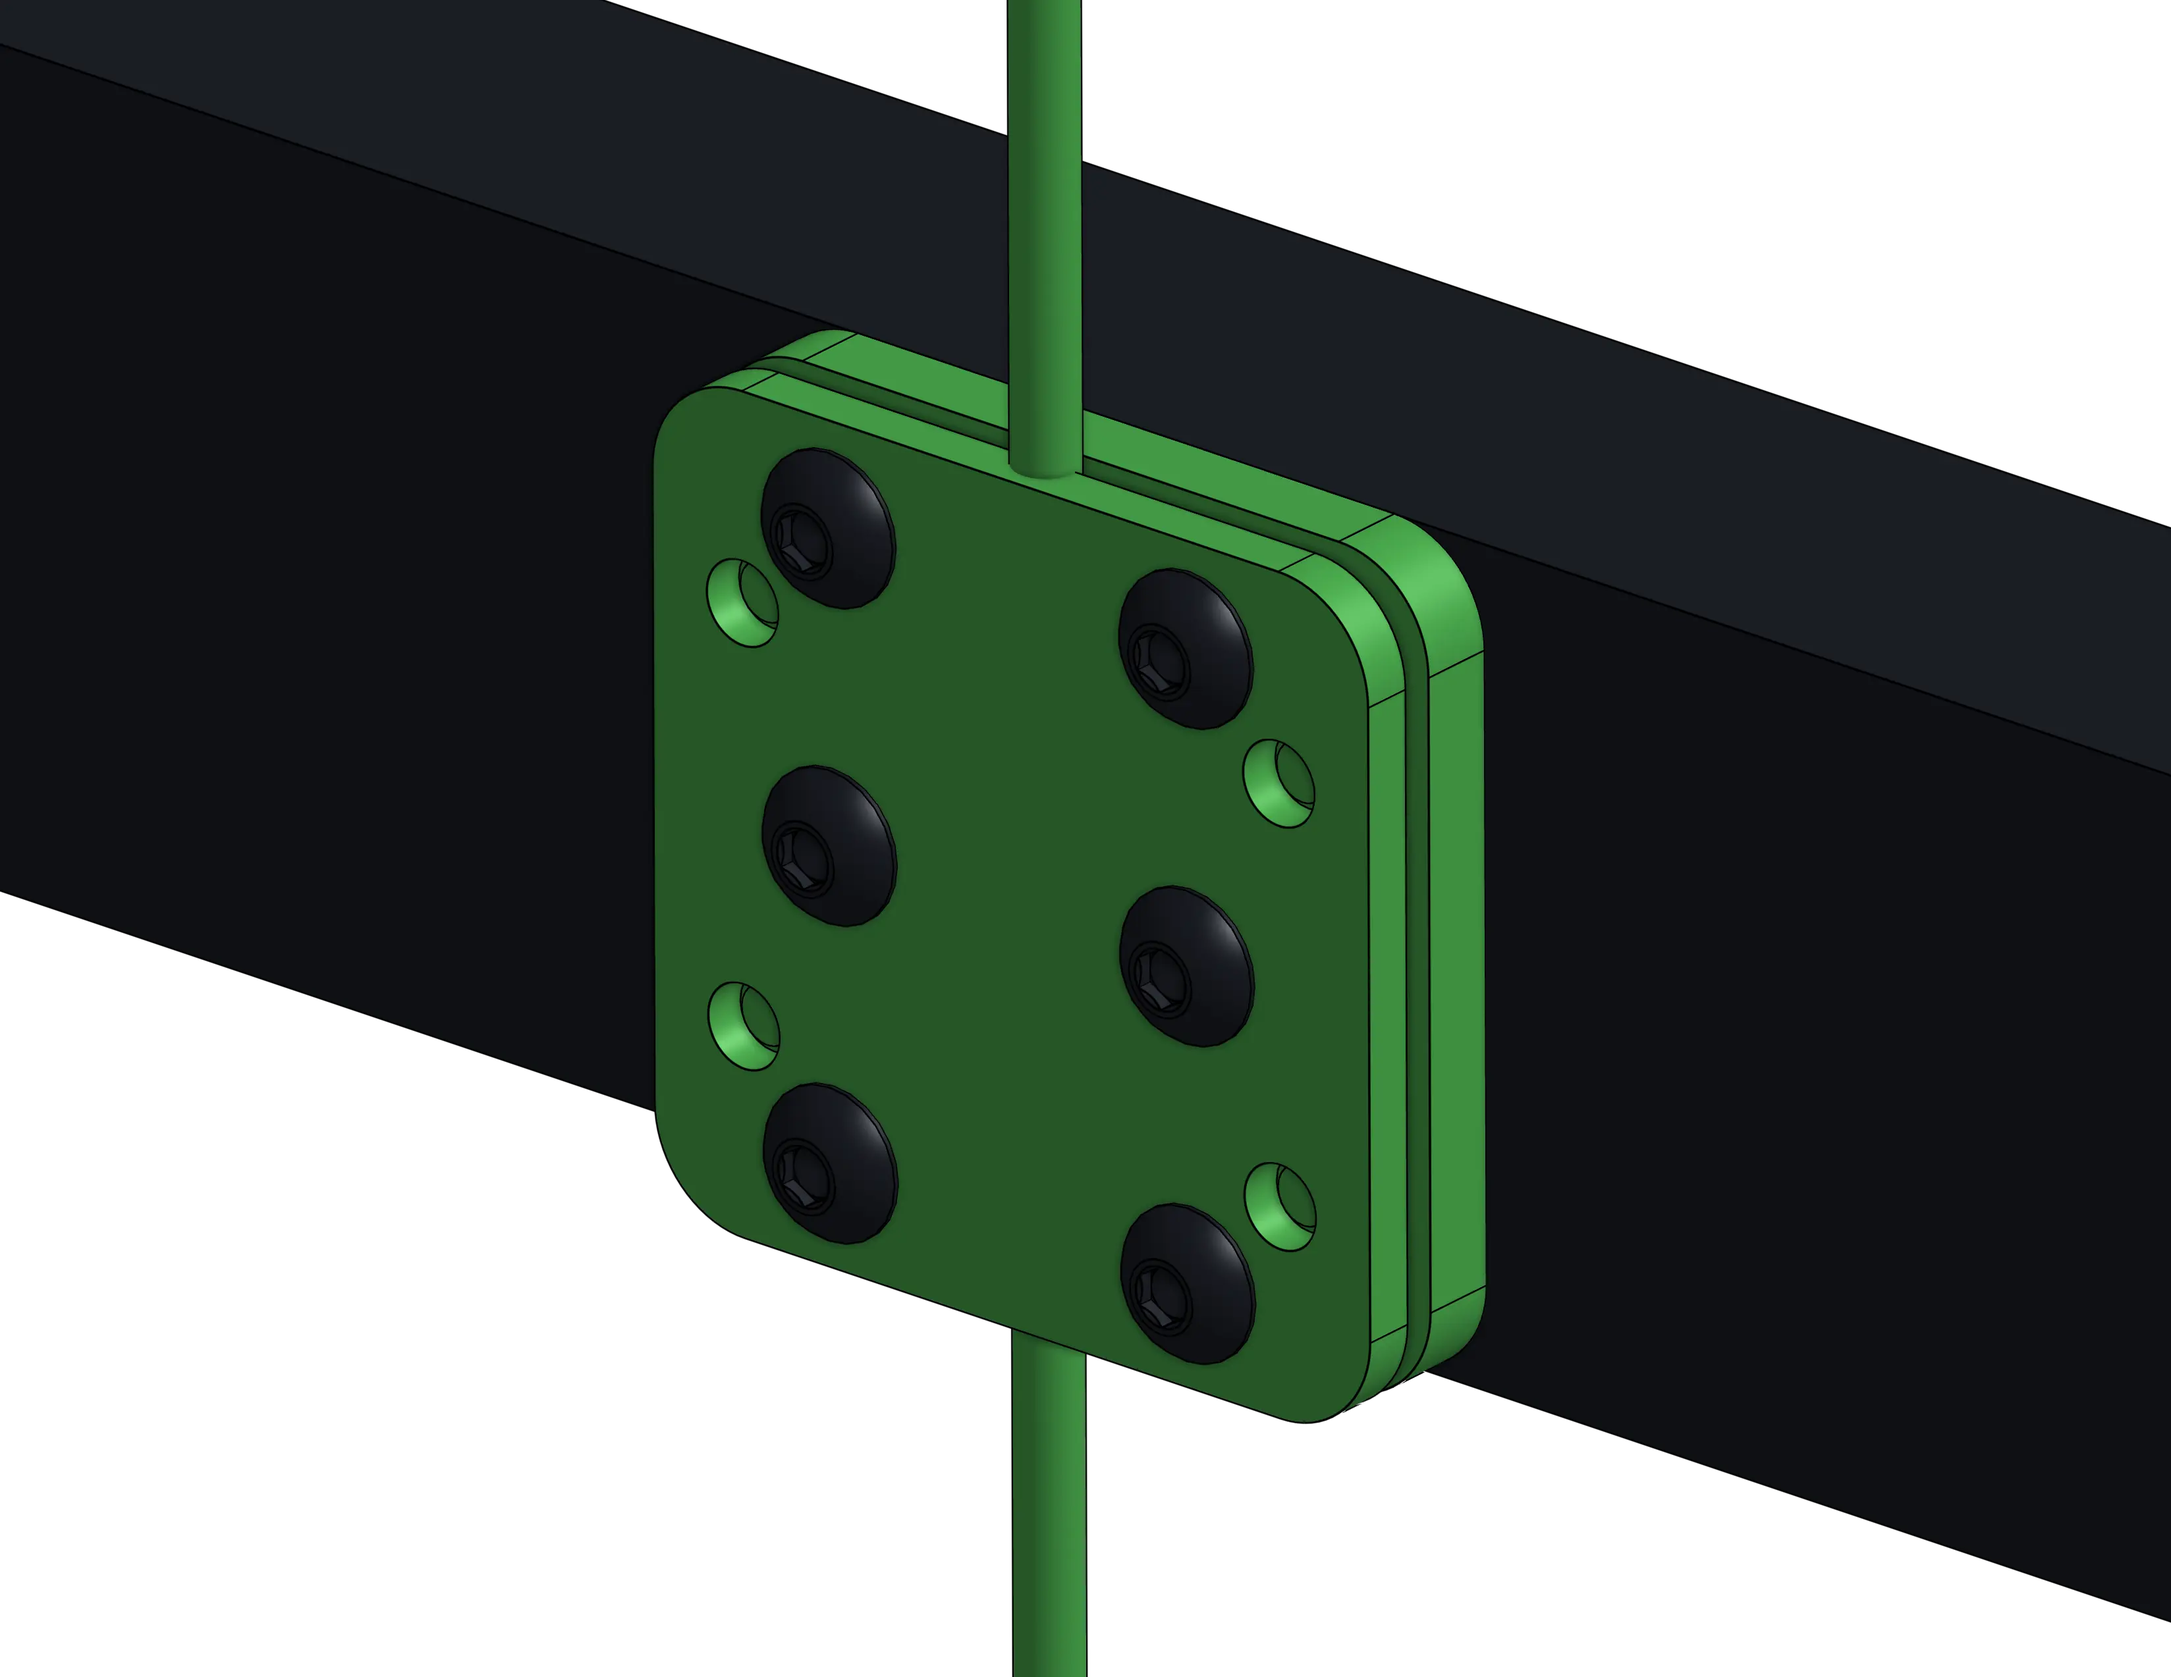
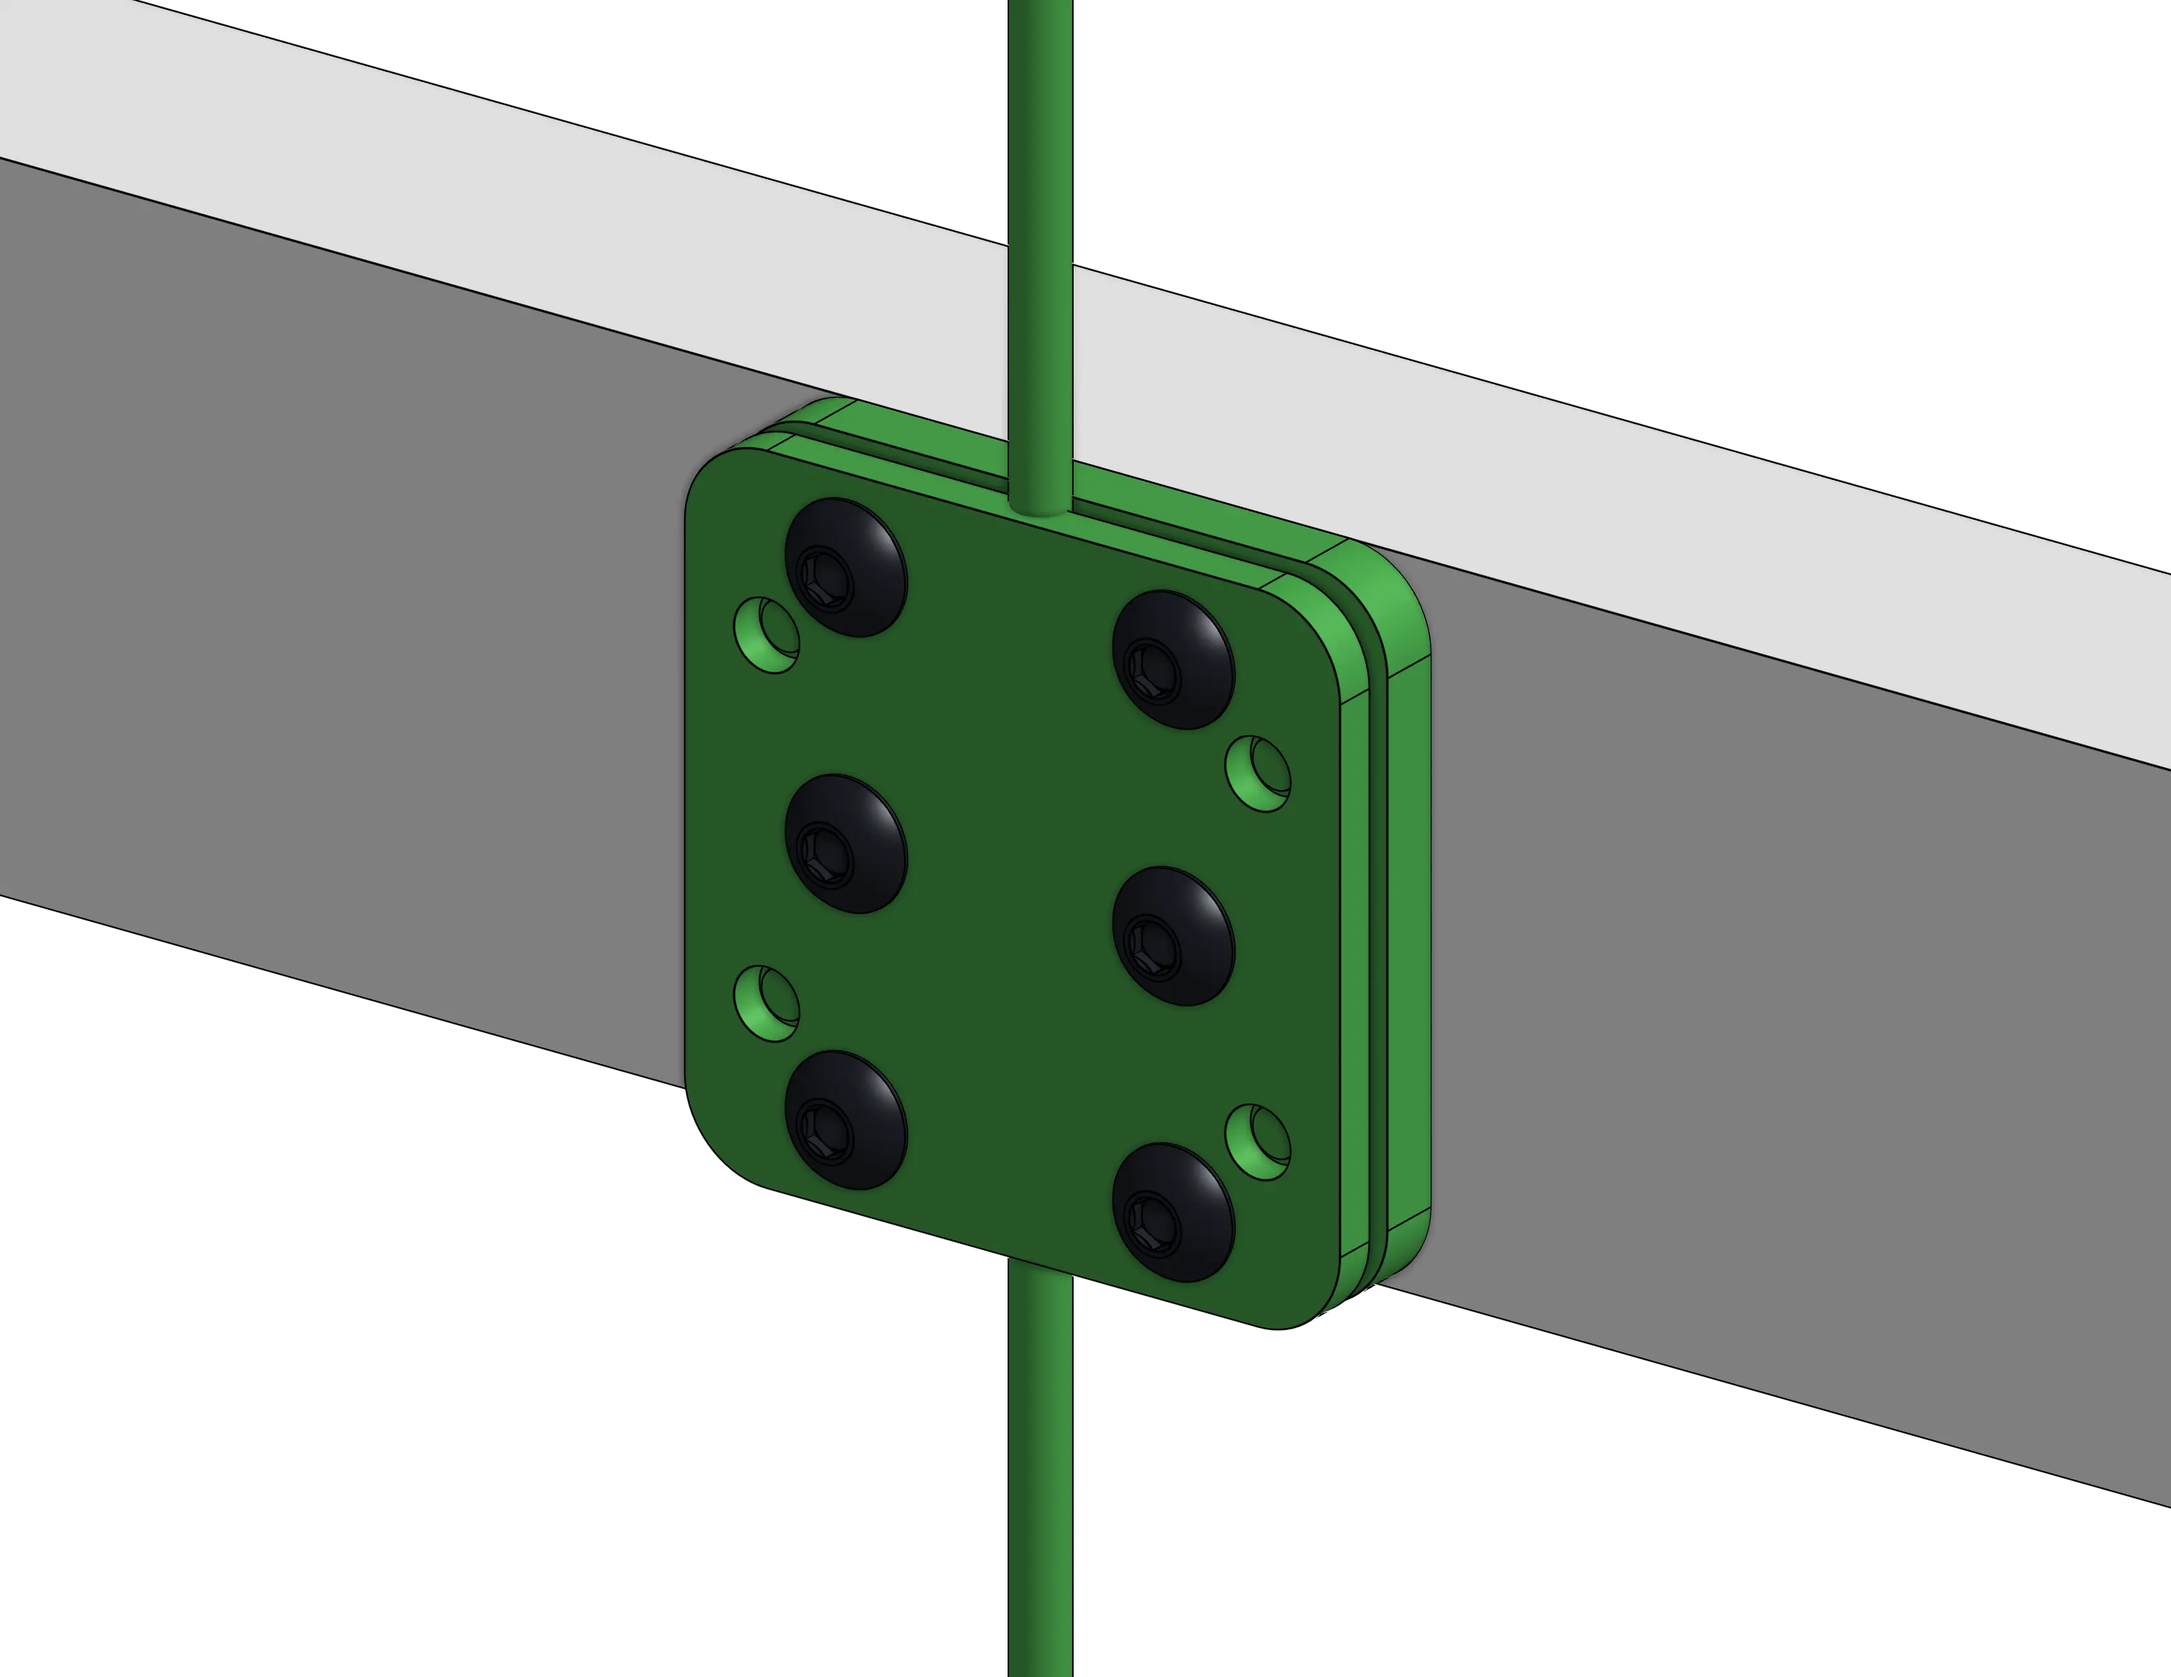
added summary and changed dark tube images on elevator page

diff --git a/docs/design-guide/stage2/2E-cascadeElevator.md b/docs/design-guide/stage2/2E-cascadeElevator.md
@@ -134,7 +134,7 @@ Cascade elevators are characterized by the way the stages move. In a cascade rig
 Because elevators are just mechanisms to move other mechanisms around, this project is similar to the dead axle pivot and will be designed without much context to learn the design process and components. You will get practice with designing elevators in the context of a robot in Stage 3.
 
 <figure markdown="span">
-    <img src="/img/design-guide/stage2-elevator/elevatorTopLevel.webp" style="width:75%">
+    <img src="/img/design-guide/stage2-elevator/elevatorTopLevel.webp" style="width:85%">
 </figure>
 
 The reference is provided in [**this document**](https://cad.onshape.com/documents/da5aef9e6bf6e869f4a51a45/w/5a0f4a3426876db0ba214277/e/c64f9fd69e2ddbe82410f283). Model a copy of it in your own document. Key components of the elevator and an overview of the design process are provided below.
@@ -211,7 +211,7 @@ Elevators need motors to power them. Once you have the rigging planned out you c
 There are many methods to power the base stage, but this guide will be using a vertical chain, and the TTB chain comb.
 <br>
 <figure markdown="span">
-    <img src="/img/design-guide/stage2-elevator/gearbox.webp" style="width:50%">
+    <img src="/img/design-guide/stage2-elevator/gearbox.webp" style="width:60%">
 </figure>
 
 
@@ -322,7 +322,18 @@ Now create the top level assembly, insert the subassemblies (fasten the origin c
 Because it's a cascade elevator, you can create "linear relation" between the two slider mates with a ratio of 1. This will link the motion together in the same way it would be in real life.
 
 ## Summary
-blah
+
+You've completed Stage 2E! To summarize what you've learned in this stage:
+
+- The concepts and key components of a cascade-rigged elevator
+- The master sketch concepts and geometry for elevators
+- Linear relations in assemblies
+- The uses of tube plugs and crush blocks for tube assemblies
+- More practice with a mechanism with moving parts and the origin cube
+
+There's a lot of freedom for attaching mechanisms to this kind of elevator. If you mount it 90 degrees offset from the front of your robot, you can even create a passthrough mechanism that can move up and down. Once you practice more master sketch integration in the next stage, you will be able to replicate a robot with an angled elevator in the later part of Stage 3.
+
+<br>
 
 <!-- ------------------DO NOT TOUCH ANYTHING BELOW HERE------------------ -->
 
